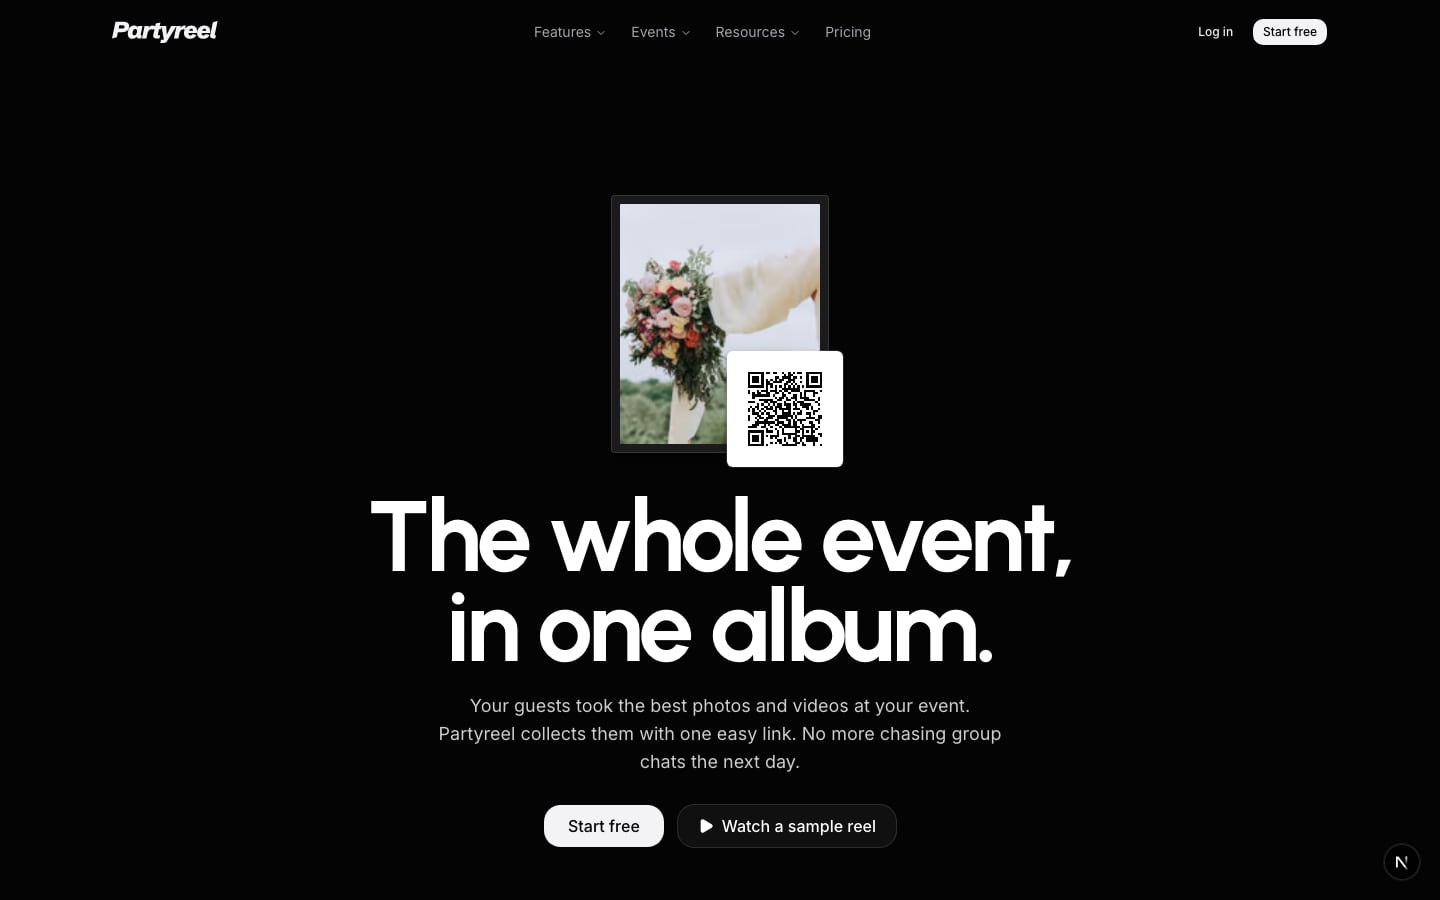
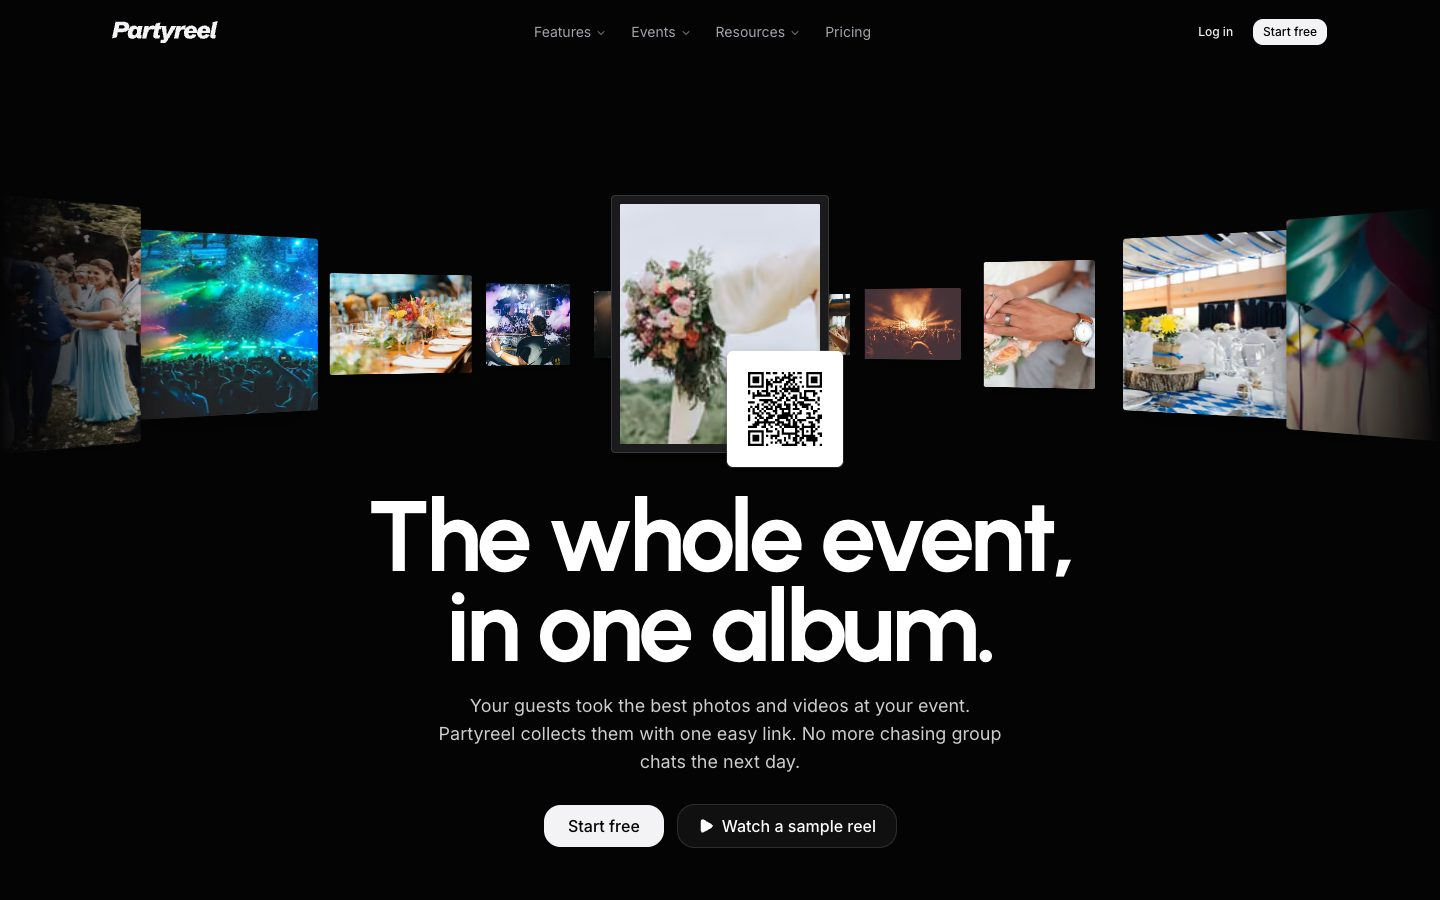
record: the kit's screens retaken from partyreel.com (the lane's carried the dev server's badge; the demo now filled, the pricing cropped to its cards) [skip ci]

Changed region(s): [[0.5625, 0.2178, 1.0, 0.4978], [0.0, 0.2178, 0.4375, 0.4978], [0.5, 0.4044, 0.5625, 0.4978]]

diff --git a/docs/tracks/orchestrator.md b/docs/tracks/orchestrator.md
@@ -48,7 +48,9 @@ Scratch for this session: `/private/tmp/claude-501/-Users-gibby-local-ai-partyre
    message), with `globals.css` and `theme.css` released from this file.
 2. **The brand kit stays current** (`kit/`, merged at `0cbc5bd6`, Will copies it for outside agents): at
    `library-lean`'s merge, add one clause to the runbook's record step: a change to the brand (tokens, logo, type,
-   or the hero, demo and pricing pages) refreshes `kit/` from its README's Sources.
+   or the hero, demo and pricing pages) refreshes `kit/` from its README's Sources; the screens come from
+   partyreel.com by the scratch `kit-capture.mjs` (it wheels to the demo so its reveal fires), which moves into
+   `usher/kit/` at the same merge.
 3. **The design docs' pass** after `library-lean` merges (`design-system.md`, `marketing-content.md`, `host-app.md`), the same guideline and brief shape as `systems-lean` (`specs/systems-lean.json`).
 4. **The reel round**, after Will's desk review on build 5 (the plan file's batch-1 and reel sections).
 

diff --git a/kit/README.md b/kit/README.md
@@ -67,4 +67,4 @@ buttons, corners and spacing. The kit carries no marketing photography and no fo
 Kept current from the Partyreel repo: the wordmark from `src/lib/brand/wordmark.ts`, the symbol from
 `src/app/icon.svg`, the colors from `src/app/globals.css` (`:root`, `.dark`) and `BRAND_HEX` in
 `src/lib/constants/site.ts`, the type from `src/app/layout.tsx`, the radii from `globals.css`; the screens are retaken
-when those pages change.
+from partyreel.com when those pages change.
